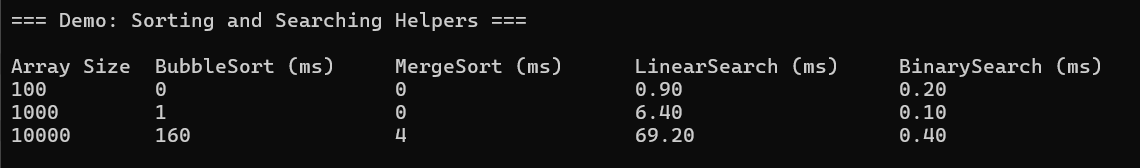
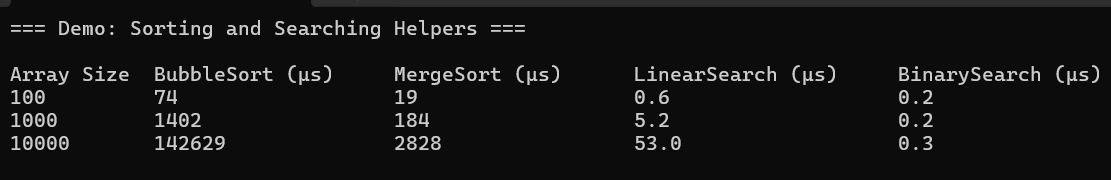
Switch all algorithm timing results to microseconds and update console headers to (µs). Adjust output formatting to use F1 for sorting algorithms and F0 for searches for cleaner display.

diff --git a/DemoHarness/Demo_SortingSearching.cs b/DemoHarness/Demo_SortingSearching.cs
@@ -21,11 +21,14 @@ namespace DemoHarness
             // Test sizes
             int[] sizes = { 100, 1000, 10000 };
 
-            Console.WriteLine($"{"Array Size",-12}{"BubbleSort (ms)",-20}{"MergeSort (ms)",-20}{"LinearSearch (ms)",-22}{"BinarySearch (ms)"}");
+            Console.WriteLine($"{"Array Size",-12}{"BubbleSort (µs)",-20}{"MergeSort (µs)",-20}{"LinearSearch (µs)",-22}{"BinarySearch (µs)"}");
 
             // Warm up the methods once to avoid JIT overhead on the first run
+            SortingSearchingHelpers.BubbleSort(new int[] { 3, 1, 2 });
+            SortingSearchingHelpers.MergeSort(new int[] { 3, 1, 2 });
             SortingSearchingHelpers.LinearSearch(new int[] { 1, 2, 3 }, 2);
             SortingSearchingHelpers.BinarySearch(new int[] { 1, 2, 3 }, 2);
+
 
             foreach (int size in sizes)
             {
@@ -37,13 +40,13 @@ namespace DemoHarness
                 var sw = Stopwatch.StartNew();
                 SortingSearchingHelpers.BubbleSort(arr1);
                 sw.Stop();
-                long bubbleSortTime = sw.ElapsedMilliseconds;
+                double bubbleSortMicro = sw.ElapsedTicks * (1_000_000.0 / Stopwatch.Frequency);
 
                 // MergeSort timing
                 sw.Restart();
                 SortingSearchingHelpers.MergeSort(arr2);
                 sw.Stop();
-                long mergeSortTime = sw.ElapsedMilliseconds;
+                double mergeSortMicro = sw.ElapsedTicks * (1_000_000.0 / Stopwatch.Frequency);
 
                 // Prepare sorted array for search
                 int[] sorted = (int[])arr2.Clone();
@@ -62,7 +65,7 @@ namespace DemoHarness
                 double binarySearchMicro = sw.ElapsedTicks * (1_000_000.0 / Stopwatch.Frequency);
 
                 // Output results
-                Console.WriteLine($"{size,-12}{bubbleSortTime,-20}{mergeSortTime,-20}{linearSearchMicro,-22:F2}{binarySearchMicro:F2}");
+                Console.WriteLine($"{size,-12}{bubbleSortMicro,-20:F0}{mergeSortMicro,-20:F0}{linearSearchMicro,-22:F1}{binarySearchMicro:F1}");
 
             }
         }
